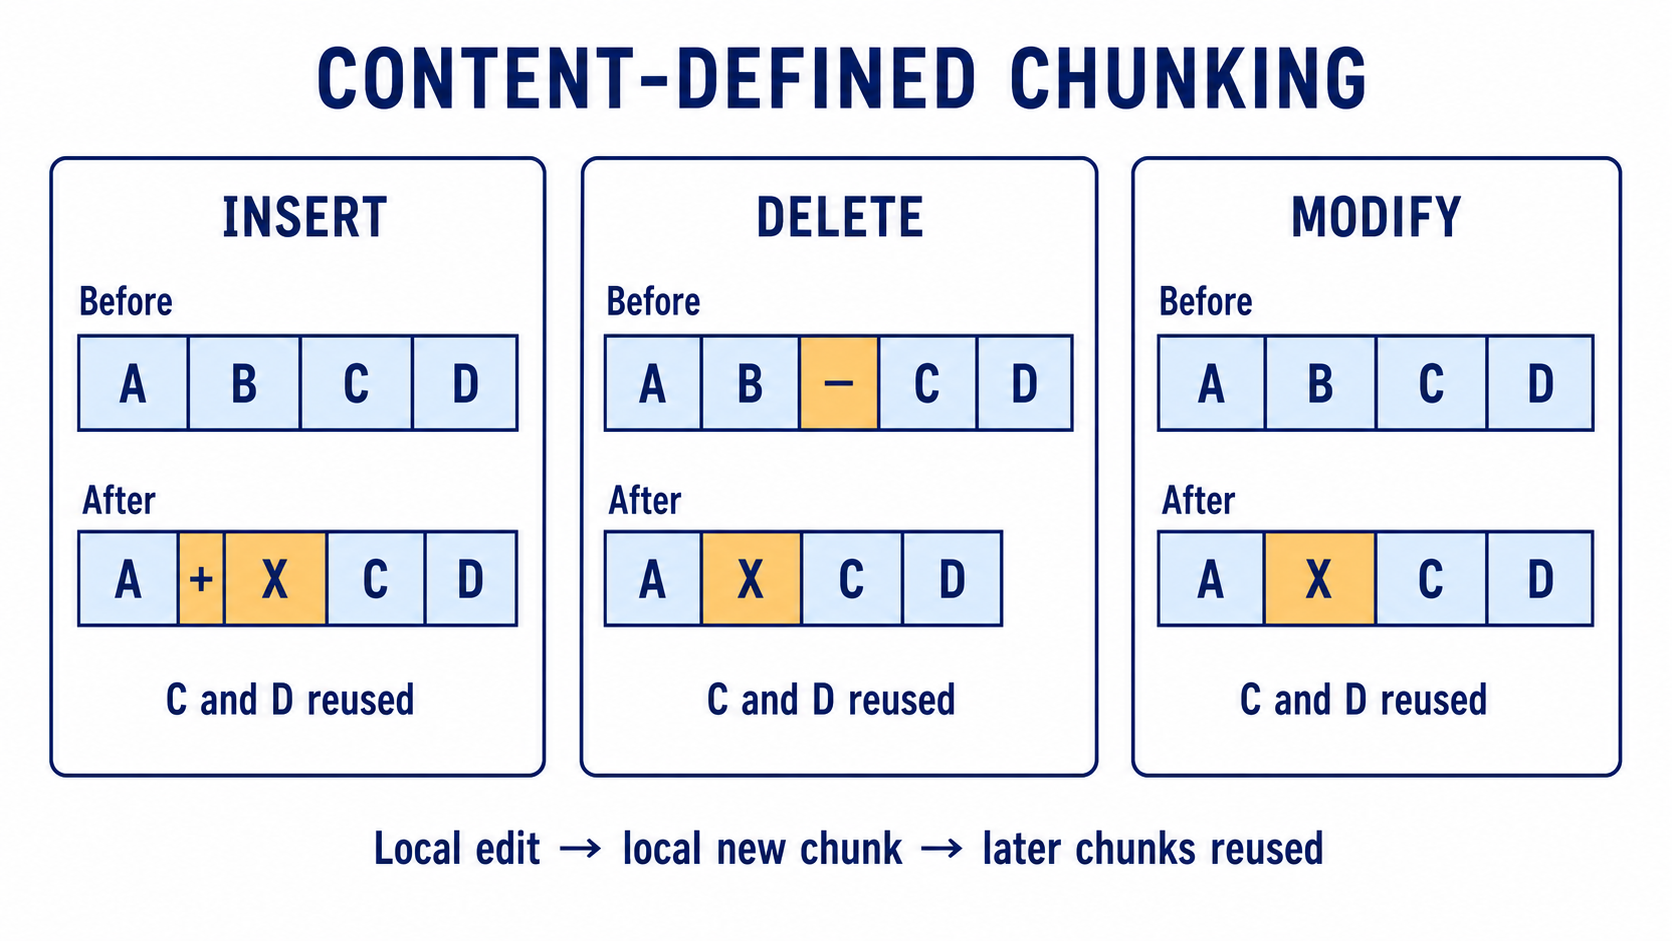
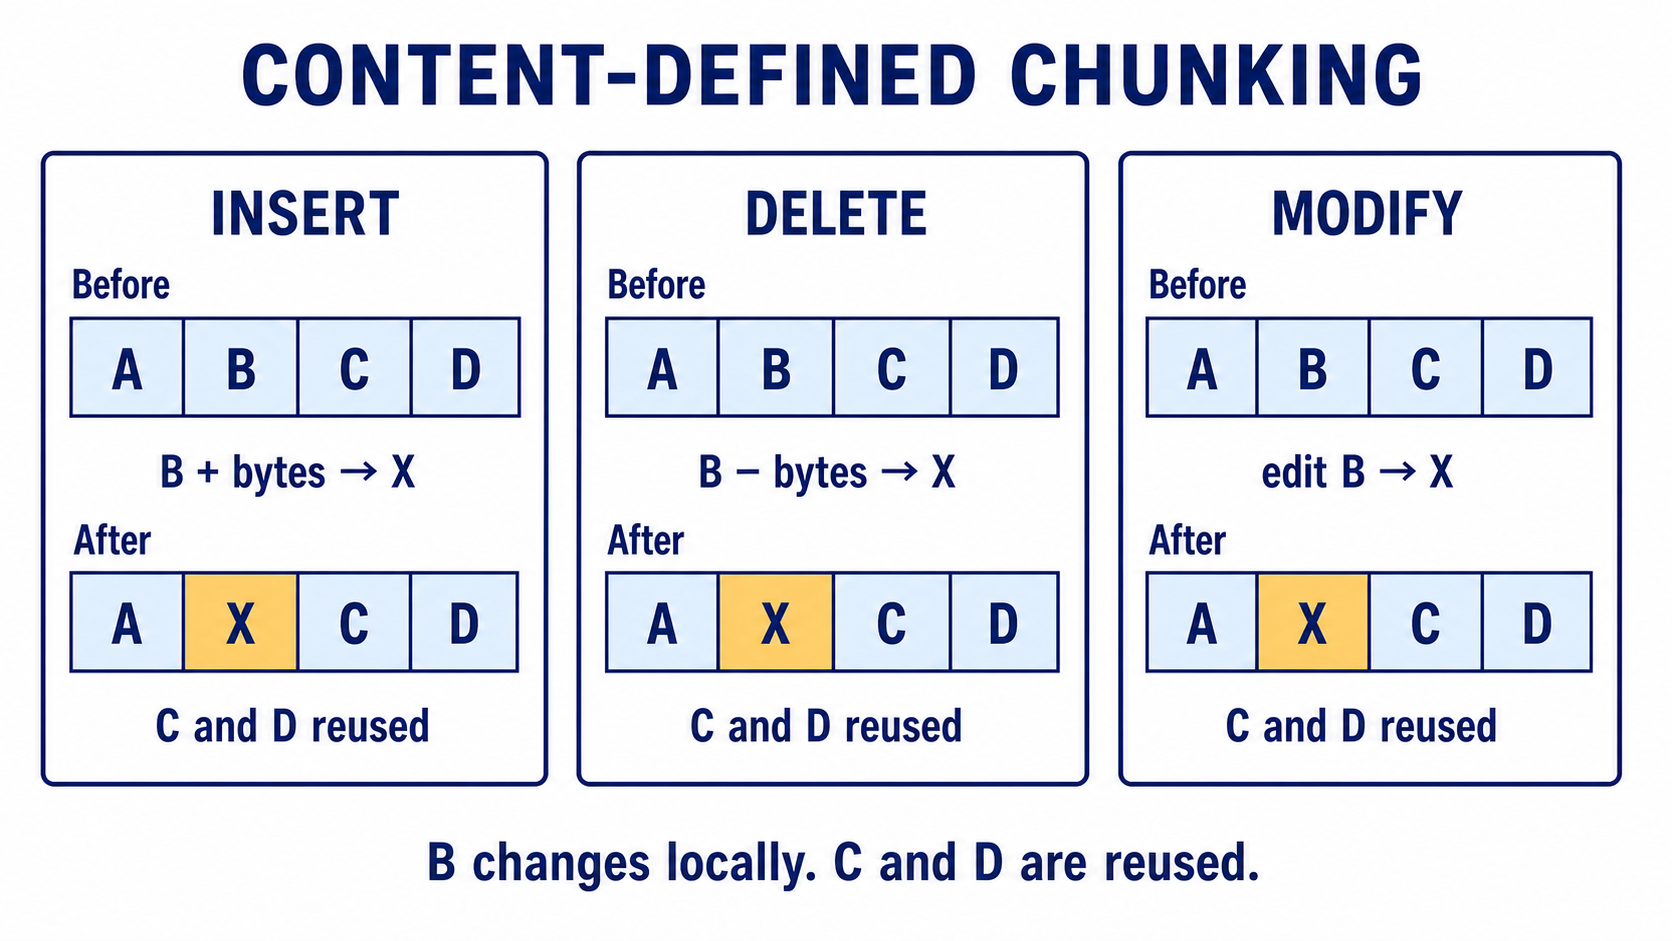
docs: make CDC chunk transition explicit

Changed region(s): [[0.0, 0.1541, 0.9952, 0.8629], [0.1244, 0.0308, 0.8708, 0.1233], [0.2177, 0.8937, 0.8086, 0.9554]]

diff --git a/launch/imgs/prompts/07-gearhash-content-defined-chunking.md b/launch/imgs/prompts/07-gearhash-content-defined-chunking.md
@@ -18,31 +18,35 @@ Layout: one title line, then exactly three equal-width cards in one horizontal r
 CARD TEMPLATE:
 - Heading at one fixed baseline.
 - `Before` label at one fixed x-position, followed by a compact row of equal rectangular chunk cells.
-- `After` label directly below at the same x-position, followed by another compact row using the same cell dimensions.
+- One centered operation line directly below the Before row. It explicitly names what happens to chunk `B`.
+- `After` label directly below the operation line at the same x-position, followed by another compact row using the same four cell dimensions.
 - One short result label at the bottom.
-- No arrows or connector lines anywhere.
+- The arrow glyph inside the operation text is the only arrow. No connector lines anywhere.
 
 CARD 1 — `INSERT`:
 - Before row: four blue cells `A`, `B`, `C`, `D`.
-- After row: blue `A`, narrow amber `+`, amber `X`, blue `C`, blue `D`.
+- Operation line: `B + bytes → X`.
+- After row: blue `A`, amber `X`, blue `C`, blue `D`.
 - Result: `C and D reused`.
 
 CARD 2 — `DELETE`:
-- Before row: blue `A`, blue `B`, narrow amber struck-through `−`, blue `C`, blue `D`.
-- After row: blue `A`, amber `X`, blue `C`, blue `D`. This row is visibly shorter.
+- Before row: four blue cells `A`, `B`, `C`, `D`.
+- Operation line: `B − bytes → X`.
+- After row: blue `A`, amber `X`, blue `C`, blue `D`.
 - Result: `C and D reused`.
 
 CARD 3 — `MODIFY`:
 - Before row: four blue cells `A`, `B`, `C`, `D`.
+- Operation line: `edit B → X`.
 - After row: blue `A`, amber `X`, blue `C`, blue `D`. Both rows have equal total length.
 - Result: `C and D reused`.
 
-FOOTER: one quiet centered line: `Local edit → local new chunk → later chunks reused`.
+FOOTER: one quiet centered line: `B changes locally. C and D are reused.`.
 
-LABELS: Render only these labels, spelled exactly: `CONTENT-DEFINED CHUNKING`, `INSERT`, `DELETE`, `MODIFY`, `Before`, `After`, `A`, `B`, `C`, `D`, `+`, `−`, `X`, `C and D reused`, `Local edit → local new chunk → later chunks reused`.
+LABELS: Render only these labels, spelled exactly: `CONTENT-DEFINED CHUNKING`, `INSERT`, `DELETE`, `MODIFY`, `Before`, `After`, `A`, `B`, `C`, `D`, `X`, `B + bytes → X`, `B − bytes → X`, `edit B → X`, `C and D reused`, `B changes locally. C and D are reused.`.
 
 COLORS: solid off-white background, deep slate outlines and text, engineering-blue unchanged chunks, amber edit markers and new chunk `X`. Color values are rendering guidance only; never display color names or hex values.
 
-STYLE: flat 2D minimal blueprint table; perfectly straight horizontal and vertical edges; uniform cells; exact alignment; generous whitespace; large readable text. No perspective, shadows, gradients, icons, curves, grids inside cells, variable box sizes, floating labels, arrows, connector lines, metrics, or extra text.
+STYLE: flat 2D minimal blueprint table; perfectly straight horizontal and vertical edges; exactly four equal cells in every Before and After row; exact alignment; generous whitespace; large readable text. No perspective, shadows, gradients, icons, curves, grids inside cells, variable box sizes, floating labels, connector lines, metrics, or extra text.
 
 ASPECT: 16:9 landscape.

diff --git a/launch/crab-x-launch-series.md b/launch/crab-x-launch-series.md
@@ -164,9 +164,9 @@ Technical overview: https://crab.build/blog/git-for-large-files-at-any-scale
 
 **Image 1 — Content-defined boundaries**
 
-![Three minimal before-and-after cards showing how insertion, deletion, and modification create one local new chunk while later chunks are reused.](imgs/07-gearhash-content-defined-chunking.png)
+![Three aligned before-and-after cards explicitly showing chunk B becoming X after insertion, deletion, or modification while chunks C and D are reused.](imgs/07-gearhash-content-defined-chunking.png)
 
-Alt text: Three aligned cards compare insertion, deletion, and modification. Each edit produces one amber local chunk X, while the later blue chunks C and D keep their identities.
+Alt text: Three aligned cards compare insertion, deletion, and modification. Their operation lines read B plus bytes becomes X, B minus bytes becomes X, and edit B becomes X. Every after row is A, X, C, D; C and D retain their identities.
 
 **Image 2 — Deduplication versus continuity**
 

diff --git a/launch/imgs/outline.md b/launch/imgs/outline.md
@@ -42,7 +42,7 @@
 
 7. `07-gearhash-content-defined-chunking.png`
    - Position: after the content-defined chunking rationale.
-   - Purpose: use three minimal before/after cards to show that insertion, deletion, and modification create a local new chunk while later chunks retain their identities.
+   - Purpose: use three minimal before/after cards with explicit `B`-to-`X` operation lines to show that insertion, deletion, and modification change the local chunk while later chunks retain their identities.
 8. `08-continuity-aware-xorb-packing.png`
    - Position: after the xorb packing rationale.
    - Purpose: use two aligned assignment tables to show how the same file order can touch four scattered xorbs or two contiguous xorbs.
